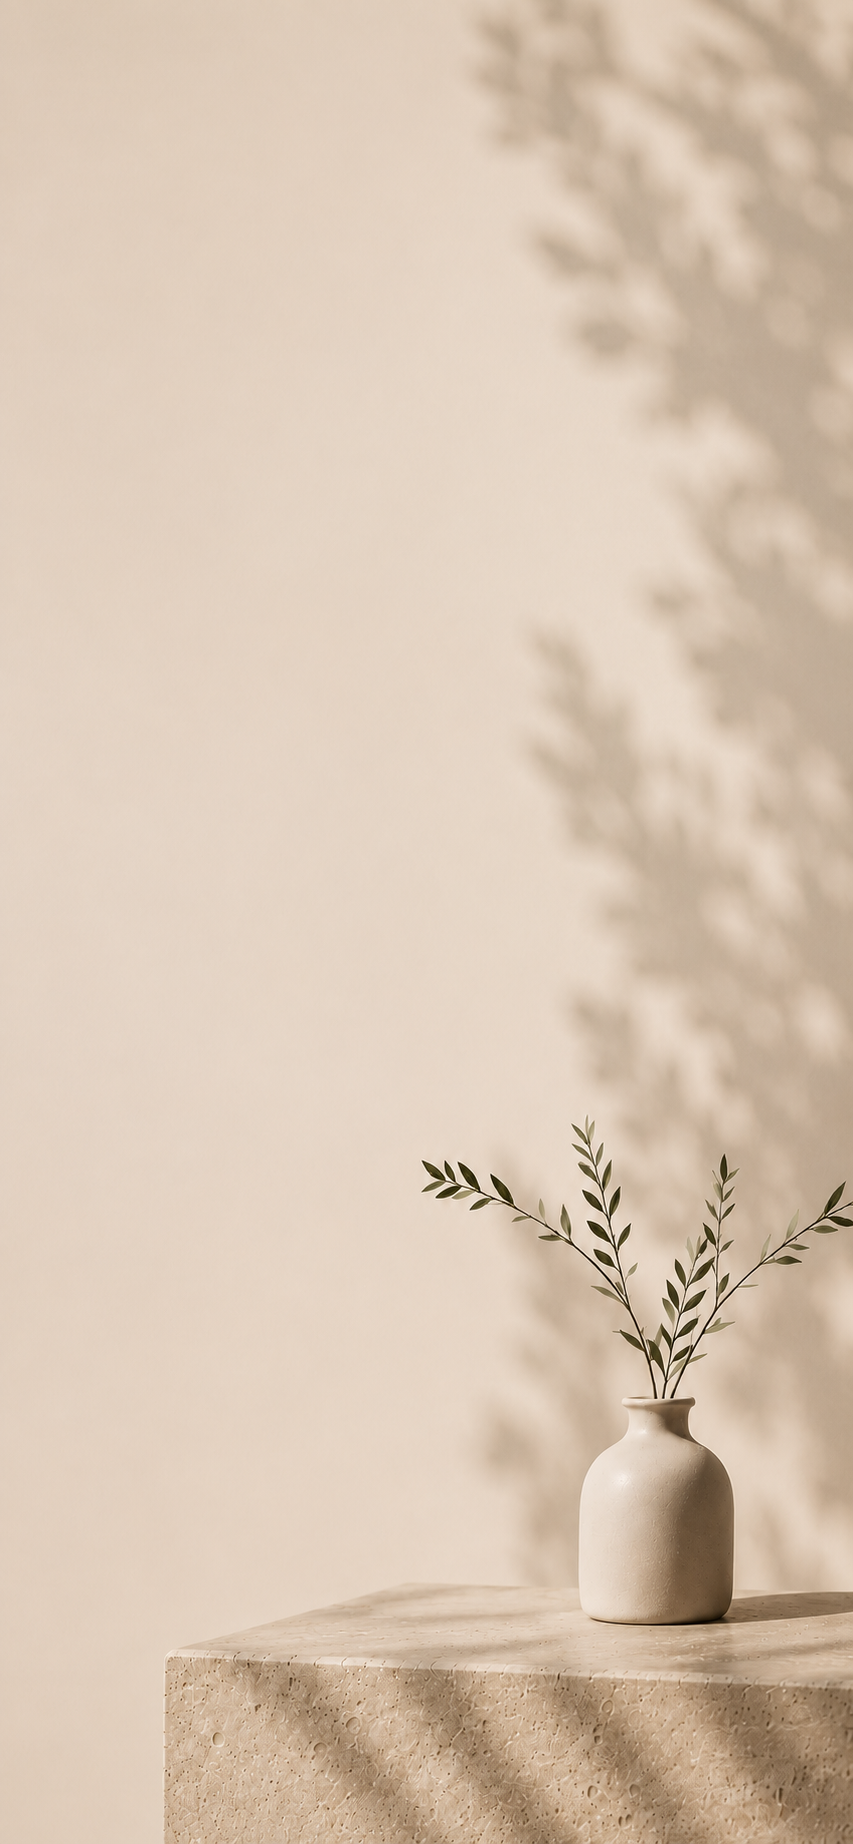
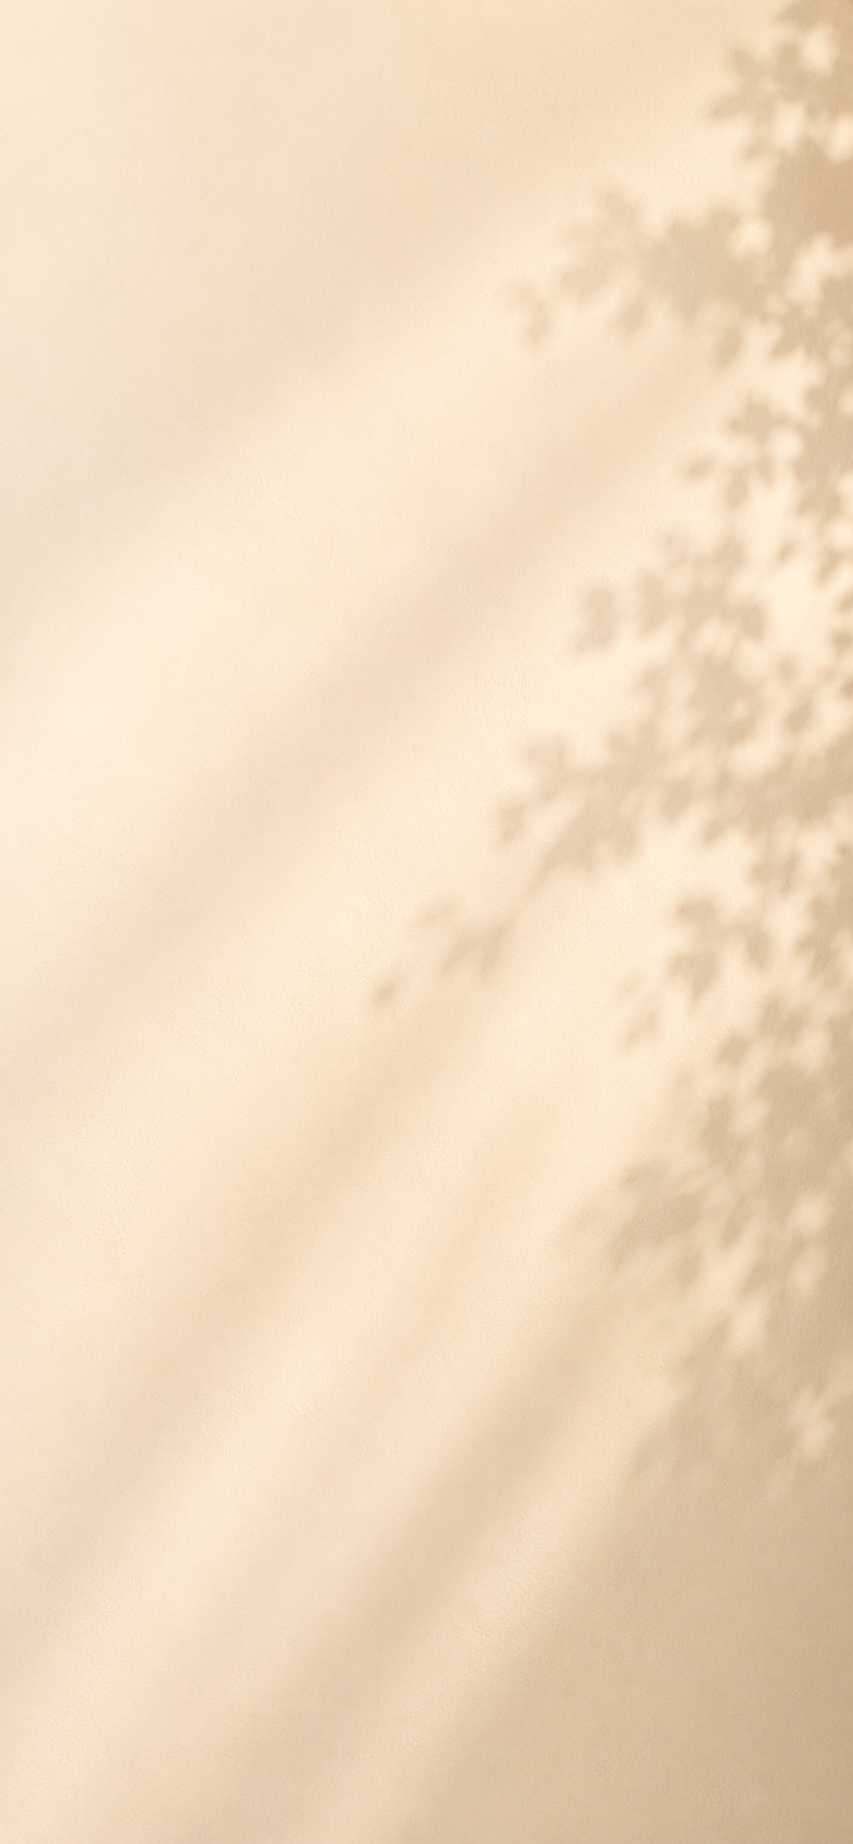
Hero changes

diff --git a/components/sections/Hero.tsx b/components/sections/Hero.tsx
@@ -2,77 +2,161 @@
 
 import Image from "next/image";
 import { motion, useReducedMotion } from "framer-motion";
-import Container from "../ui/Container";
-import Button from "../ui/Button";
+import Container from "@/components/ui/Container";
+import Button from "@/components/ui/Button";
+import LogoCarousel from "../ui/LogoCarousel";
+import { FaReact } from "react-icons/fa";
+import {
+    CodeBracketSquareIcon,
+    DevicePhoneMobileIcon,
+} from "@heroicons/react/24/outline";
+
+const allLogos = [
+    { name: "Van Dijk Bouw", src: "/images/logos/van-dijk.png" },
+    { name: "The Oche", src: "/images/logos/Oche.png" },
+    { name: "Origin", src: "/images/logos/Origin.png" },
+];
 
 export default function Hero() {
     const reduced = useReducedMotion();
 
     const textContent = (
         <motion.div
-            initial={reduced ? false : { opacity: 0, x: -50 }}
+            initial={reduced ? false : { opacity: 0, x: -24 }}
             animate={{ opacity: 1, x: 0 }}
             transition={{ duration: 0.7, ease: [0.25, 0.1, 0.25, 1] }}
             style={{ willChange: "transform" }}
         >
-            <h1 className="font-serif font-semibold text-4xl text-ink leading-[1.1] tracking-tight">
-                Websites that
+            <h1 className="font-serif font-semibold text-5xl md:text-6xl lg:text-7xl text-ink leading-[1.1] tracking-tight">
+                Websites that help
                 <br />
-                help businesses{"  "}
-                <em className="italic  text-forest"> <br /> grow.</em>
+                businesses{" "}
+                <em className="italic text-forest">grow.</em>
             </h1>
 
-            <p className="mt-5 font-sans text-sm text-ink-muted leading-relaxed max-w-xs">
-                We design and build custom websites that
-                are fast, scalable and made to convert.
+            <p className="mt-6 font-sans text-md md:text-base text-ink-muted leading-relaxed max-w-xs">
+                We design and build custom websites that are fast, scalable and made
+                to convert.
             </p>
 
-            <div className="mt-7 flex items-center gap-6">
+            <div className="mt-8 flex items-center gap-6">
                 <Button label="See our work" href="#work" />
-                <Button
-                    label="Learn more"
-                    href="#about"
-                    variant="ghost"
-                    arrow="down"
-                />
+                <Button label="Learn more" href="#about" variant="ghost" arrow="down" />
+            </div>
+        </motion.div>
+    );
+
+    const FeatureCard = (
+        <motion.div
+            initial={{ opacity: 0, y: 20 }}
+            animate={{ opacity: 1, y: 0 }}
+            transition={{
+                duration: 0.7,
+                delay: 0.8,
+                ease: [0.25, 0.1, 0.25, 1],
+            }}
+            className="hidden lg:block absolute top-1/2 right-[18%] -translate-y-1/2 z-30"
+        >
+            <div className="rounded-3xl border border-black/5 bg-white/40 backdrop-blur-md p-6 shadow-[0_10px_40px_rgba(0,0,0,0.04)] w-60">
+                <div className="space-y-5">
+
+                    <div className="flex items-start gap-3">
+                        <CodeBracketSquareIcon className="h-5 w-5 text-forest mt-1" />
+                        <div>
+                            <p className="font-semibold text-xl text-ink">100%</p>
+                            <p className="text-sm text-ink-muted">
+                                Custom Built
+                            </p>
+                        </div>
+                    </div>
+
+                    <div className="h-px bg-black/10" />
+
+                    <div className="flex items-start gap-3">
+                        <FaReact className="h-5 w-5 text-forest mt-1" />
+                        <div>
+                            <p className="font-semibold text-xl text-ink">
+                                Next.js
+                            </p>
+                            <p className="text-sm text-ink-muted">
+                                & React
+                            </p>
+                        </div>
+                    </div>
+
+                    <div className="h-px bg-black/10" />
+
+                    <div className="flex items-start gap-3">
+                        <DevicePhoneMobileIcon className="h-5 w-5 text-forest mt-1" />
+                        <div>
+                            <p className="font-semibold text-xl text-ink">
+                                Mobile
+                            </p>
+                            <p className="text-sm text-ink-muted">
+                                First
+                            </p>
+                        </div>
+                    </div>
+
+                </div>
             </div>
         </motion.div>
     );
 
     return (
-        <section className="relative min-h-screen overflow-hidden">
+        <section className="relative min-h-screen" style={{ overflow: "clip" }}>
+
             {/* Mobile image */}
             <Image
                 src="/images/hero/Hero2.png"
-                alt="Zuyd Studio - premium web design"
+                alt="Zuyd Studio — premium web design"
                 fill
                 className="object-cover object-bottom md:hidden"
                 priority
             />
 
-            {/* Desktop Image */}
+            {/* Desktop image */}
             <Image
                 src="/images/hero/Hero.png"
-                alt="Zuyd Studio - premium web design"
+                alt="Zuyd Studio — premium web design"
                 fill
                 className="object-cover object-center hidden md:block"
                 priority
             />
 
-            {/* Mobile gradient — strong at top where text is, fades to transparent */}
-            <div className="absolute inset-0 bg-gradient-to-b from-cream/97 via-cream/85 to-cream/20 z-10 md:hidden" />
+            {/* Mobile gradient */}
+            <div className="absolute inset-0 bg-gradient-to-b from-cream via-cream/90 to-cream/30 z-10 md:hidden" />
+            <div className="absolute inset-0 bg-gradient-to-r from-[#F7F2EB]/40 via-transparent to-transparent" />
 
-            {/* Desktop gradient — strong on left, fades right */}
-            <div className="absolute inset-0 bg-gradient-to-r from-cream/95 via-cream/60 to-cream/10 z-10 hidden md:block" />
             {/* Content */}
             <Container>
-                <div className="relative z-20 flex flex-col  items-start justify-start  min-h-screen pt-28 pb-20 md:justify-center md:pt-24">
+                <div className="relative z-30 flex flex-col items-start justify-start min-h-screen pt-28 pb-20 md:justify-center md:pt-24">
                     <div className="max-w-lg">
                         {textContent}
                     </div>
                 </div>
             </Container>
+
+            {FeatureCard}
+
+            {/* Mobile trust bar — bottom of hero */}
+            <motion.div
+                className="absolute bottom-0 left-0 right-0 z-30 md:hidden bg-gradient-to-t from-cream/95 to-transparent pb-6 pt-10"
+                initial={{ opacity: 0, y: 16 }}
+                animate={{ opacity: 1, y: 0 }}
+                transition={{ duration: 0.6, delay: 1.2, ease: [0.25, 0.1, 0.25, 1] }}
+            >
+                <p className="text-center text-[10px] font-sans font-medium tracking-[0.2em] uppercase text-ink-muted mb-4">
+                    Trusted by ambitious businesses
+                </p>
+                <LogoCarousel
+                    logos={allLogos}
+                    visibleCount={1}
+                    interval={2000}
+                    logoHeight="h-14"
+                />
+            </motion.div>
+
         </section>
     );
 }
-

diff --git a/components/sections/TrustBar.tsx b/components/sections/TrustBar.tsx
@@ -1,15 +1,10 @@
 "use client";
 
 import { useState, useEffect } from "react";
-import { AnimatePresence, motion } from "framer-motion";
 import Container from "../ui/Container";
+import LogoCarousel from "../ui/LogoCarousel";
 
-type Logo = {
-    name: string;
-    src: string;
-};
-
-const allLogos: Logo[] = [
+const allLogos = [
     { name: "Van Dijk Bouw", src: "/images/logos/van-dijk.png" },
     { name: "The Oche", src: "/images/logos/Oche.png" },
     { name: "Origin", src: "/images/logos/Origin.png" },
@@ -22,10 +17,7 @@ const allLogos: Logo[] = [
     // { name: "Client 10",          src: "/images/logos/client-10.png"  },
 ];
 
-const INTERVAL_MS = 2500;
-
 export default function TrustBar() {
-    const [startIndex, setStartIndex] = useState(0);
     const [visibleCount, setVisibleCount] = useState(3);
 
     useEffect(() => {
@@ -37,59 +29,18 @@ export default function TrustBar() {
         return () => window.removeEventListener("resize", update);
     }, []);
 
-    // Interval lives inside effect — always has fresh visibleCount
-    useEffect(() => {
-        const shouldRotate = allLogos.length > visibleCount;
-        if (!shouldRotate) {
-            setStartIndex(0);
-            return;
-        }
-        const timer = setInterval(() => {
-            setStartIndex((prev) => (prev + 1) % allLogos.length);
-        }, INTERVAL_MS);
-        return () => clearInterval(timer);
-    }, [visibleCount]);
-
-    const shouldRotate = allLogos.length > visibleCount;
-
-    const visibleLogos = shouldRotate
-        ? Array.from({ length: visibleCount }, (_, i) =>
-            allLogos[(startIndex + i) % allLogos.length]
-        )
-        : allLogos;
-
     return (
-        <section className="py-6 md:py-10 border-t border-cream-border bg-cream-dark">
+        <section className="hidden md:block py-6 md:py-10 border-t border-cream-border bg-cream-dark">
             <Container>
-
-                <p className="text-center text-md font-sans font-medium tracking-[0.2em] uppercase text-ink-muted mb-8">
+                <p className="text-center text-xs font-sans font-medium tracking-[0.2em] uppercase text-ink-muted mb-8">
                     Trusted by Ambitious Businesses
                 </p>
-
-                <div className="relative w-full overflow-hidden">
-                    <div className="flex items-center justify-center gap-x-16 md:gap-x-24 min-h-[64px]">
-                        <AnimatePresence mode="popLayout" initial={false}>
-                            {visibleLogos.map((logo) => (
-                                <motion.div
-                                    layout
-                                    key={logo.name}
-                                    initial={shouldRotate ? { opacity: 0, x: 48 } : false}
-                                    animate={{ opacity: 1, x: 0 }}
-                                    exit={{ opacity: 0, x: -48 }}
-                                    transition={{ duration: 0.4, ease: [0.25, 0.1, 0.25, 1] }}
-                                    className="flex-shrink-0"
-                                >
-                                    <img
-                                        src={logo.src}
-                                        alt={logo.name}
-                                        className="h-12 md:h-16 w-auto grayscale opacity-70 hover:opacity-100 hover:grayscale-0 transition-all duration-300"
-                                    />
-                                </motion.div>
-                            ))}
-                        </AnimatePresence>
-                    </div>
-                </div>
-
+                <LogoCarousel
+                    logos={allLogos}
+                    visibleCount={visibleCount}
+                    interval={2500}
+                    logoHeight="h-12 md:h-16"
+                />
             </Container>
         </section>
     );

diff --git a/components/ui/LogoCarousel.tsx b/components/ui/LogoCarousel.tsx
@@ -1,0 +1,68 @@
+"use client";
+
+import { useState, useEffect } from "react";
+import { AnimatePresence, motion } from "framer-motion";
+
+type Logo = {
+    name: string;
+    src: string;
+};
+
+interface LogoCarouselProps {
+    logos: Logo[];
+    visibleCount?: number;
+    interval?: number;
+    logoHeight?: string;
+    gap?: string;
+}
+
+export default function LogoCarousel({
+    logos,
+    visibleCount = 1,
+    interval = 2500,
+    logoHeight = "h-50",
+    gap = "gap-20",
+}: LogoCarouselProps) {
+    const [startIndex, setStartIndex] = useState(0);
+    const shouldRotate = logos.length > visibleCount;
+
+    useEffect(() => {
+        if (!shouldRotate) return;
+        const timer = setInterval(() => {
+            setStartIndex((prev) => (prev + 1) % logos.length);
+        }, interval);
+        return () => clearInterval(timer);
+    }, [shouldRotate, interval, logos.length]);
+
+    const visibleLogos = shouldRotate
+        ? Array.from({ length: visibleCount }, (_, i) =>
+            logos[(startIndex + i) % logos.length]
+        )
+        : logos;
+
+    return (
+        <div className="relative overflow-hidden">
+            <div className={`flex items-center justify-center ${gap}`}>
+                <AnimatePresence mode="popLayout" initial={false}>
+                    {visibleLogos.map((logo) => (
+                        <motion.div
+                            layout
+                            key={logo.name}
+                            initial={shouldRotate ? { opacity: 0, x: 48 } : false}
+                            animate={{ opacity: 1, x: 0 }}
+                            exit={{ opacity: 0, x: -48 }}
+                            transition={{ duration: 0.4, ease: [0.25, 0.1, 0.25, 1] }}
+                            className="flex-shrink-0"
+                        >
+                            <img
+                                src={logo.src}
+                                alt={logo.name}
+                                className={`${logoHeight} w-auto grayscale opacity-60 hover:opacity-100 hover:grayscale-0 transition-all duration-300`}
+                            />
+                        </motion.div>
+                    ))}
+                </AnimatePresence>
+            </div>
+        </div>
+    );
+}

diff --git a/components/layout/Navbar.tsx b/components/layout/Navbar.tsx
@@ -43,12 +43,12 @@ export default function Navbar() {
                     </Link>
 
                     {/* Desktop nav Links */}
-                    <ul className="hidden md:flex items-center gap-8">
+                    <ul className="hidden md:flex items-center gap-12">
                         {navLinks.map((link) => (
                             <li key={link.label}>
                                 <Link
                                     href={link.href}
-                                    className="text-sm font-sans text-ink-muted hover:text-ink transition-colors duration-200"
+                                    className="text-md font-sans text-ink-muted hover:text-ink transition-colors duration-200"
                                 >
                                     {link.label}
                                 </Link>